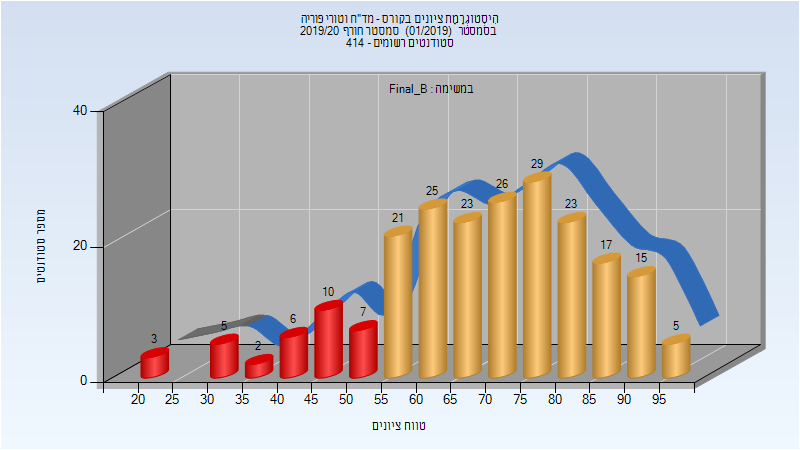
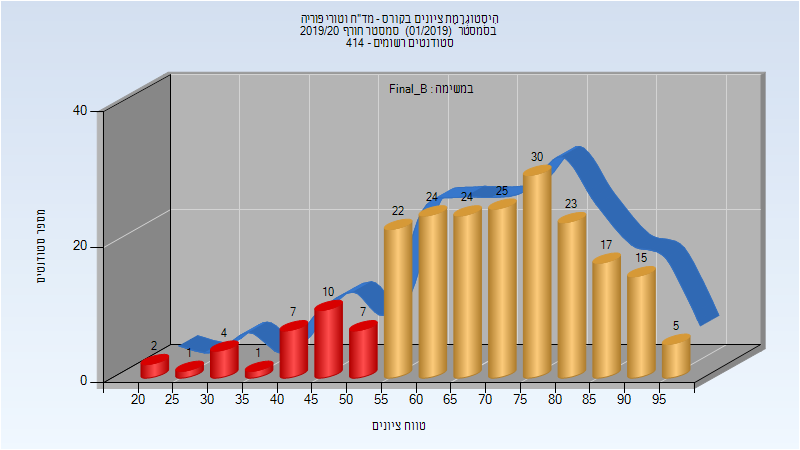
Deploy michael-maltsev/technion-histograms to github.com/michael-maltsev/technion-histograms.git:gh-pages

diff --git a/104223/index.html b/104223/index.html
@@ -2060,11 +2060,11 @@
 <tbody>
 <tr>
 <td>288</td>
-<td>245/43</td>
+<td>246/42</td>
 <td>85</td>
-<td>16</td>
+<td>17</td>
 <td>99</td>
-<td>70.285</td>
+<td>70.399</td>
 <td>73</td>
 </tr>
 </tbody>
@@ -2112,11 +2112,11 @@
 <tbody>
 <tr>
 <td>217</td>
-<td>184/33</td>
+<td>185/32</td>
 <td>85</td>
-<td>22</td>
+<td>23</td>
 <td>98</td>
-<td>69.18</td>
+<td>69.424</td>
 <td>71</td>
 </tr>
 </tbody>

diff --git a/104223/README.md b/104223/README.md
@@ -647,7 +647,7 @@
 
 | סטודנטים | עברו/נכשלו | אחוז עוברים | ציון מינימלי | ציון מקסימלי | ממוצע | חציון |
 | ---- | ---- | ---- | ---- | ---- | ---- | ---- |
-| 288 | 245/43 | 85 | 16 | 99 | 70.285 | 73 |
+| 288 | 246/42 | 85 | 17 | 99 | 70.399 | 73 |
 
 ### מבחן מועד ב'
 
@@ -663,7 +663,7 @@
 
 | סטודנטים | עברו/נכשלו | אחוז עוברים | ציון מינימלי | ציון מקסימלי | ממוצע | חציון |
 | ---- | ---- | ---- | ---- | ---- | ---- | ---- |
-| 217 | 184/33 | 85 | 22 | 98 | 69.18 | 71 |
+| 217 | 185/32 | 85 | 23 | 98 | 69.424 | 71 |
 
 ### סופי
 
